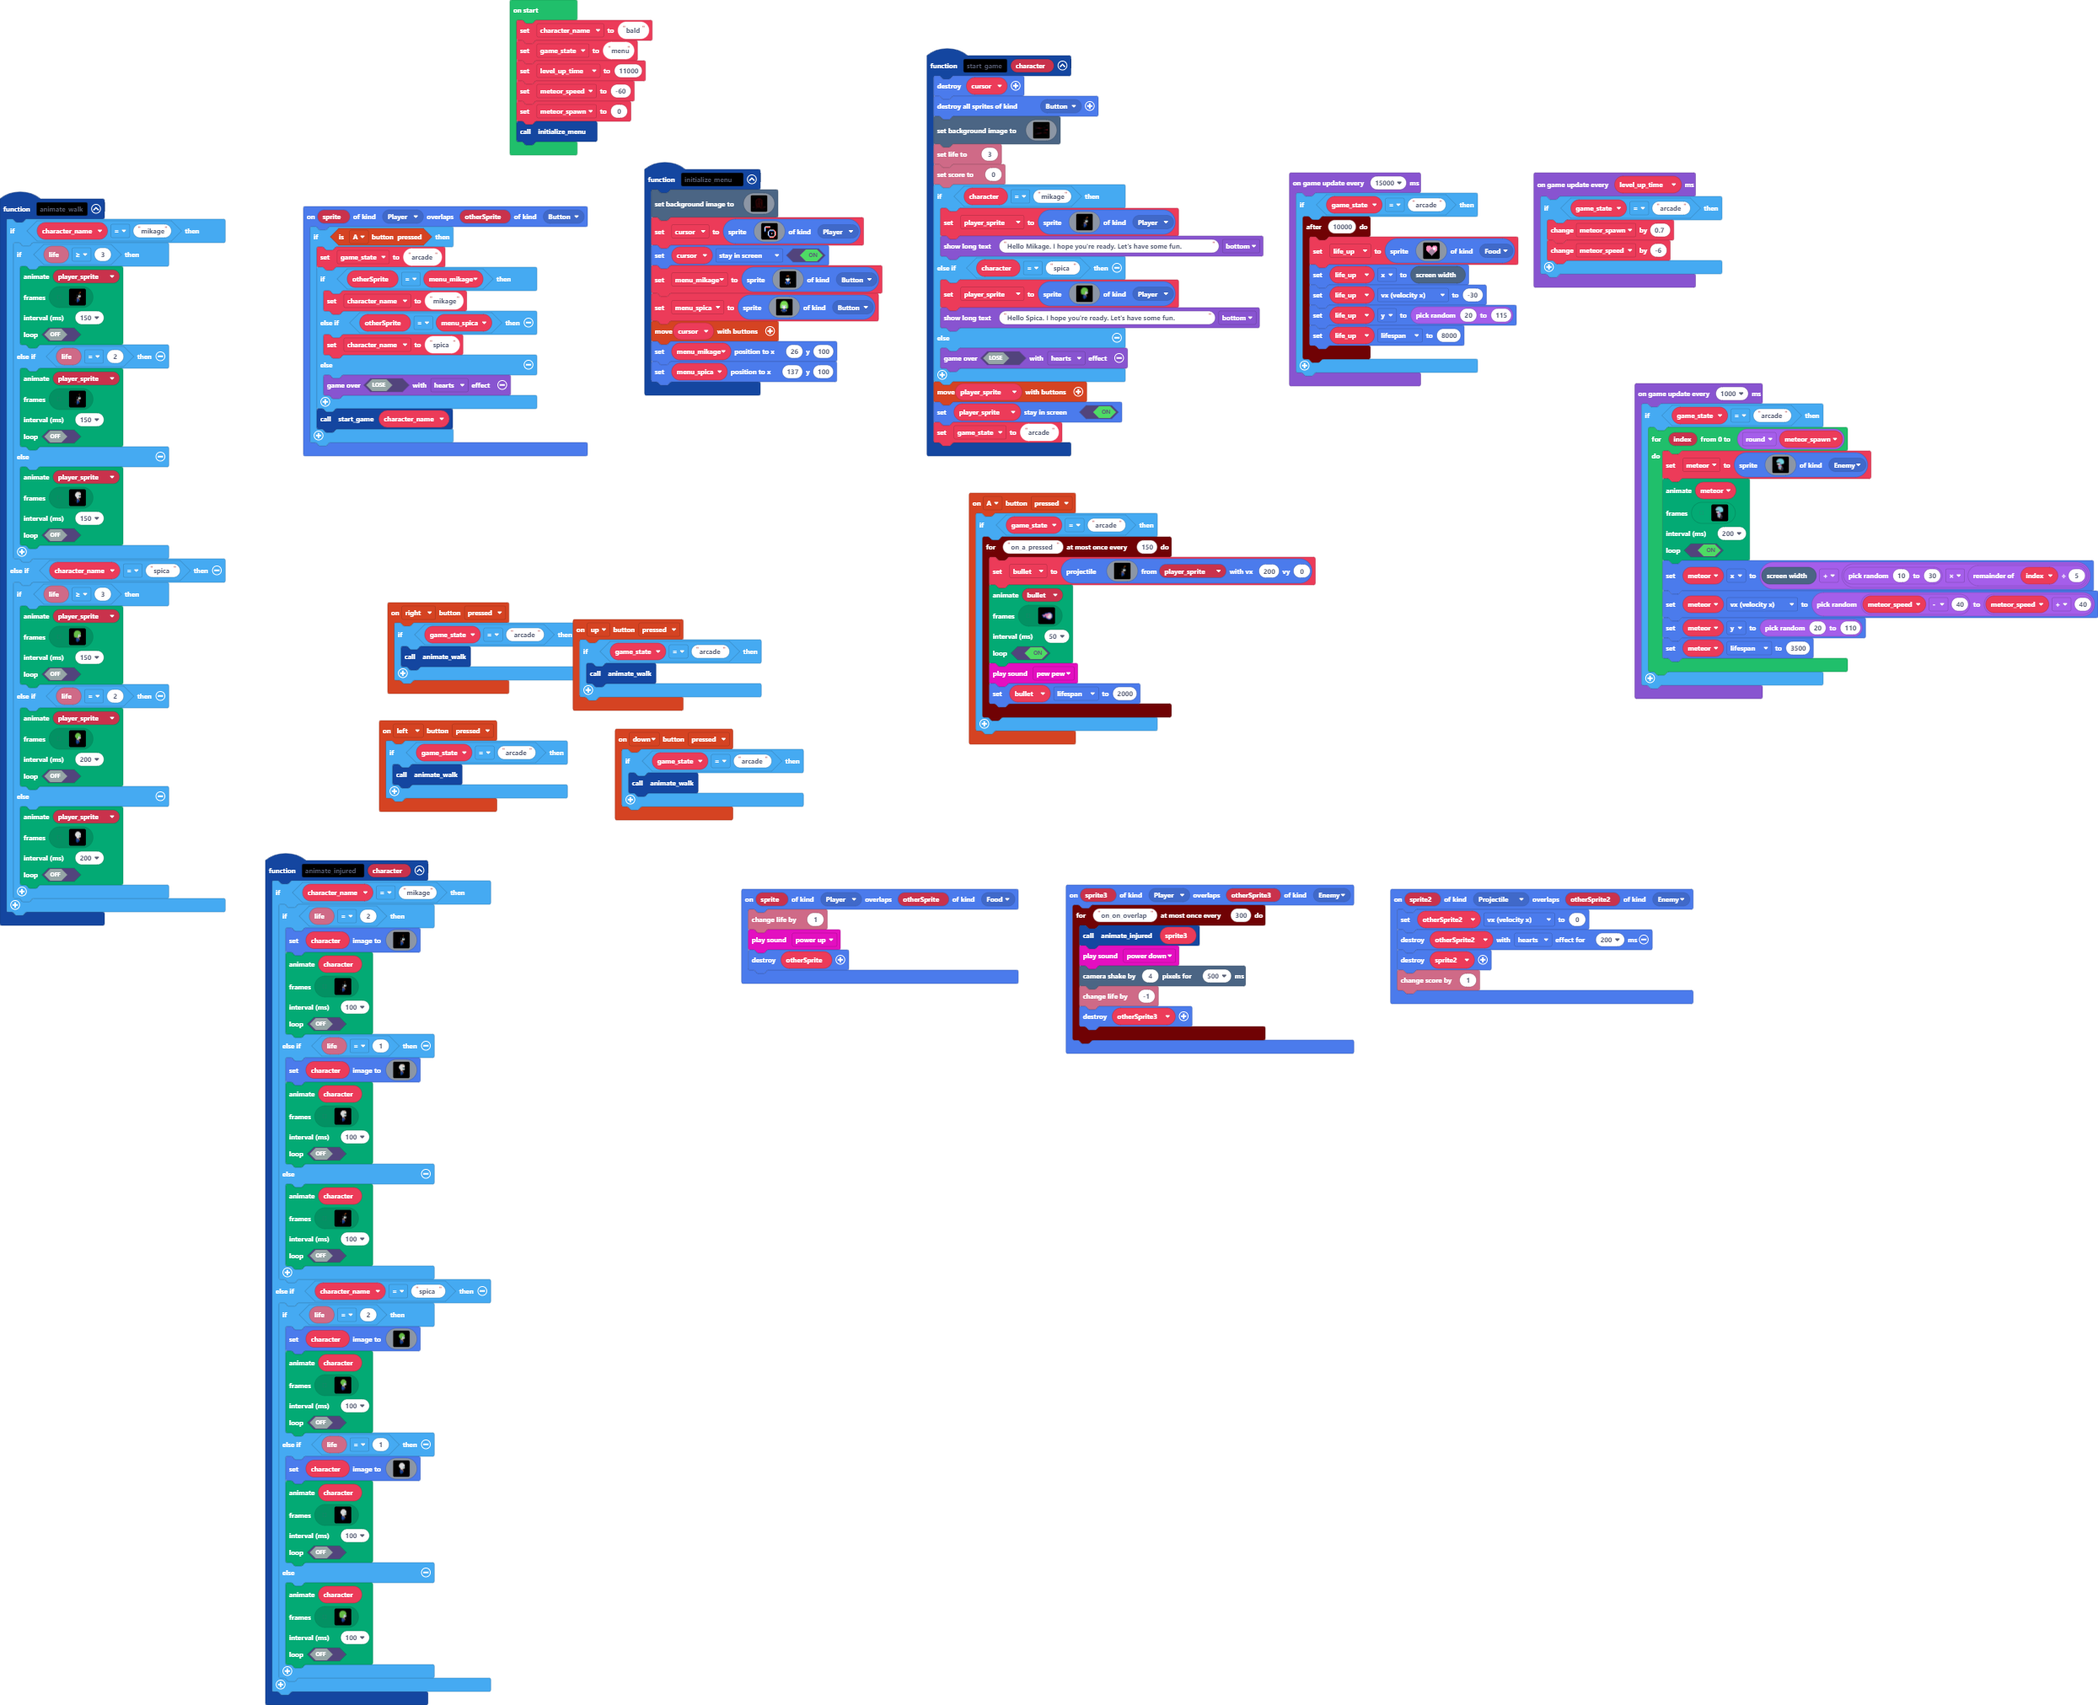
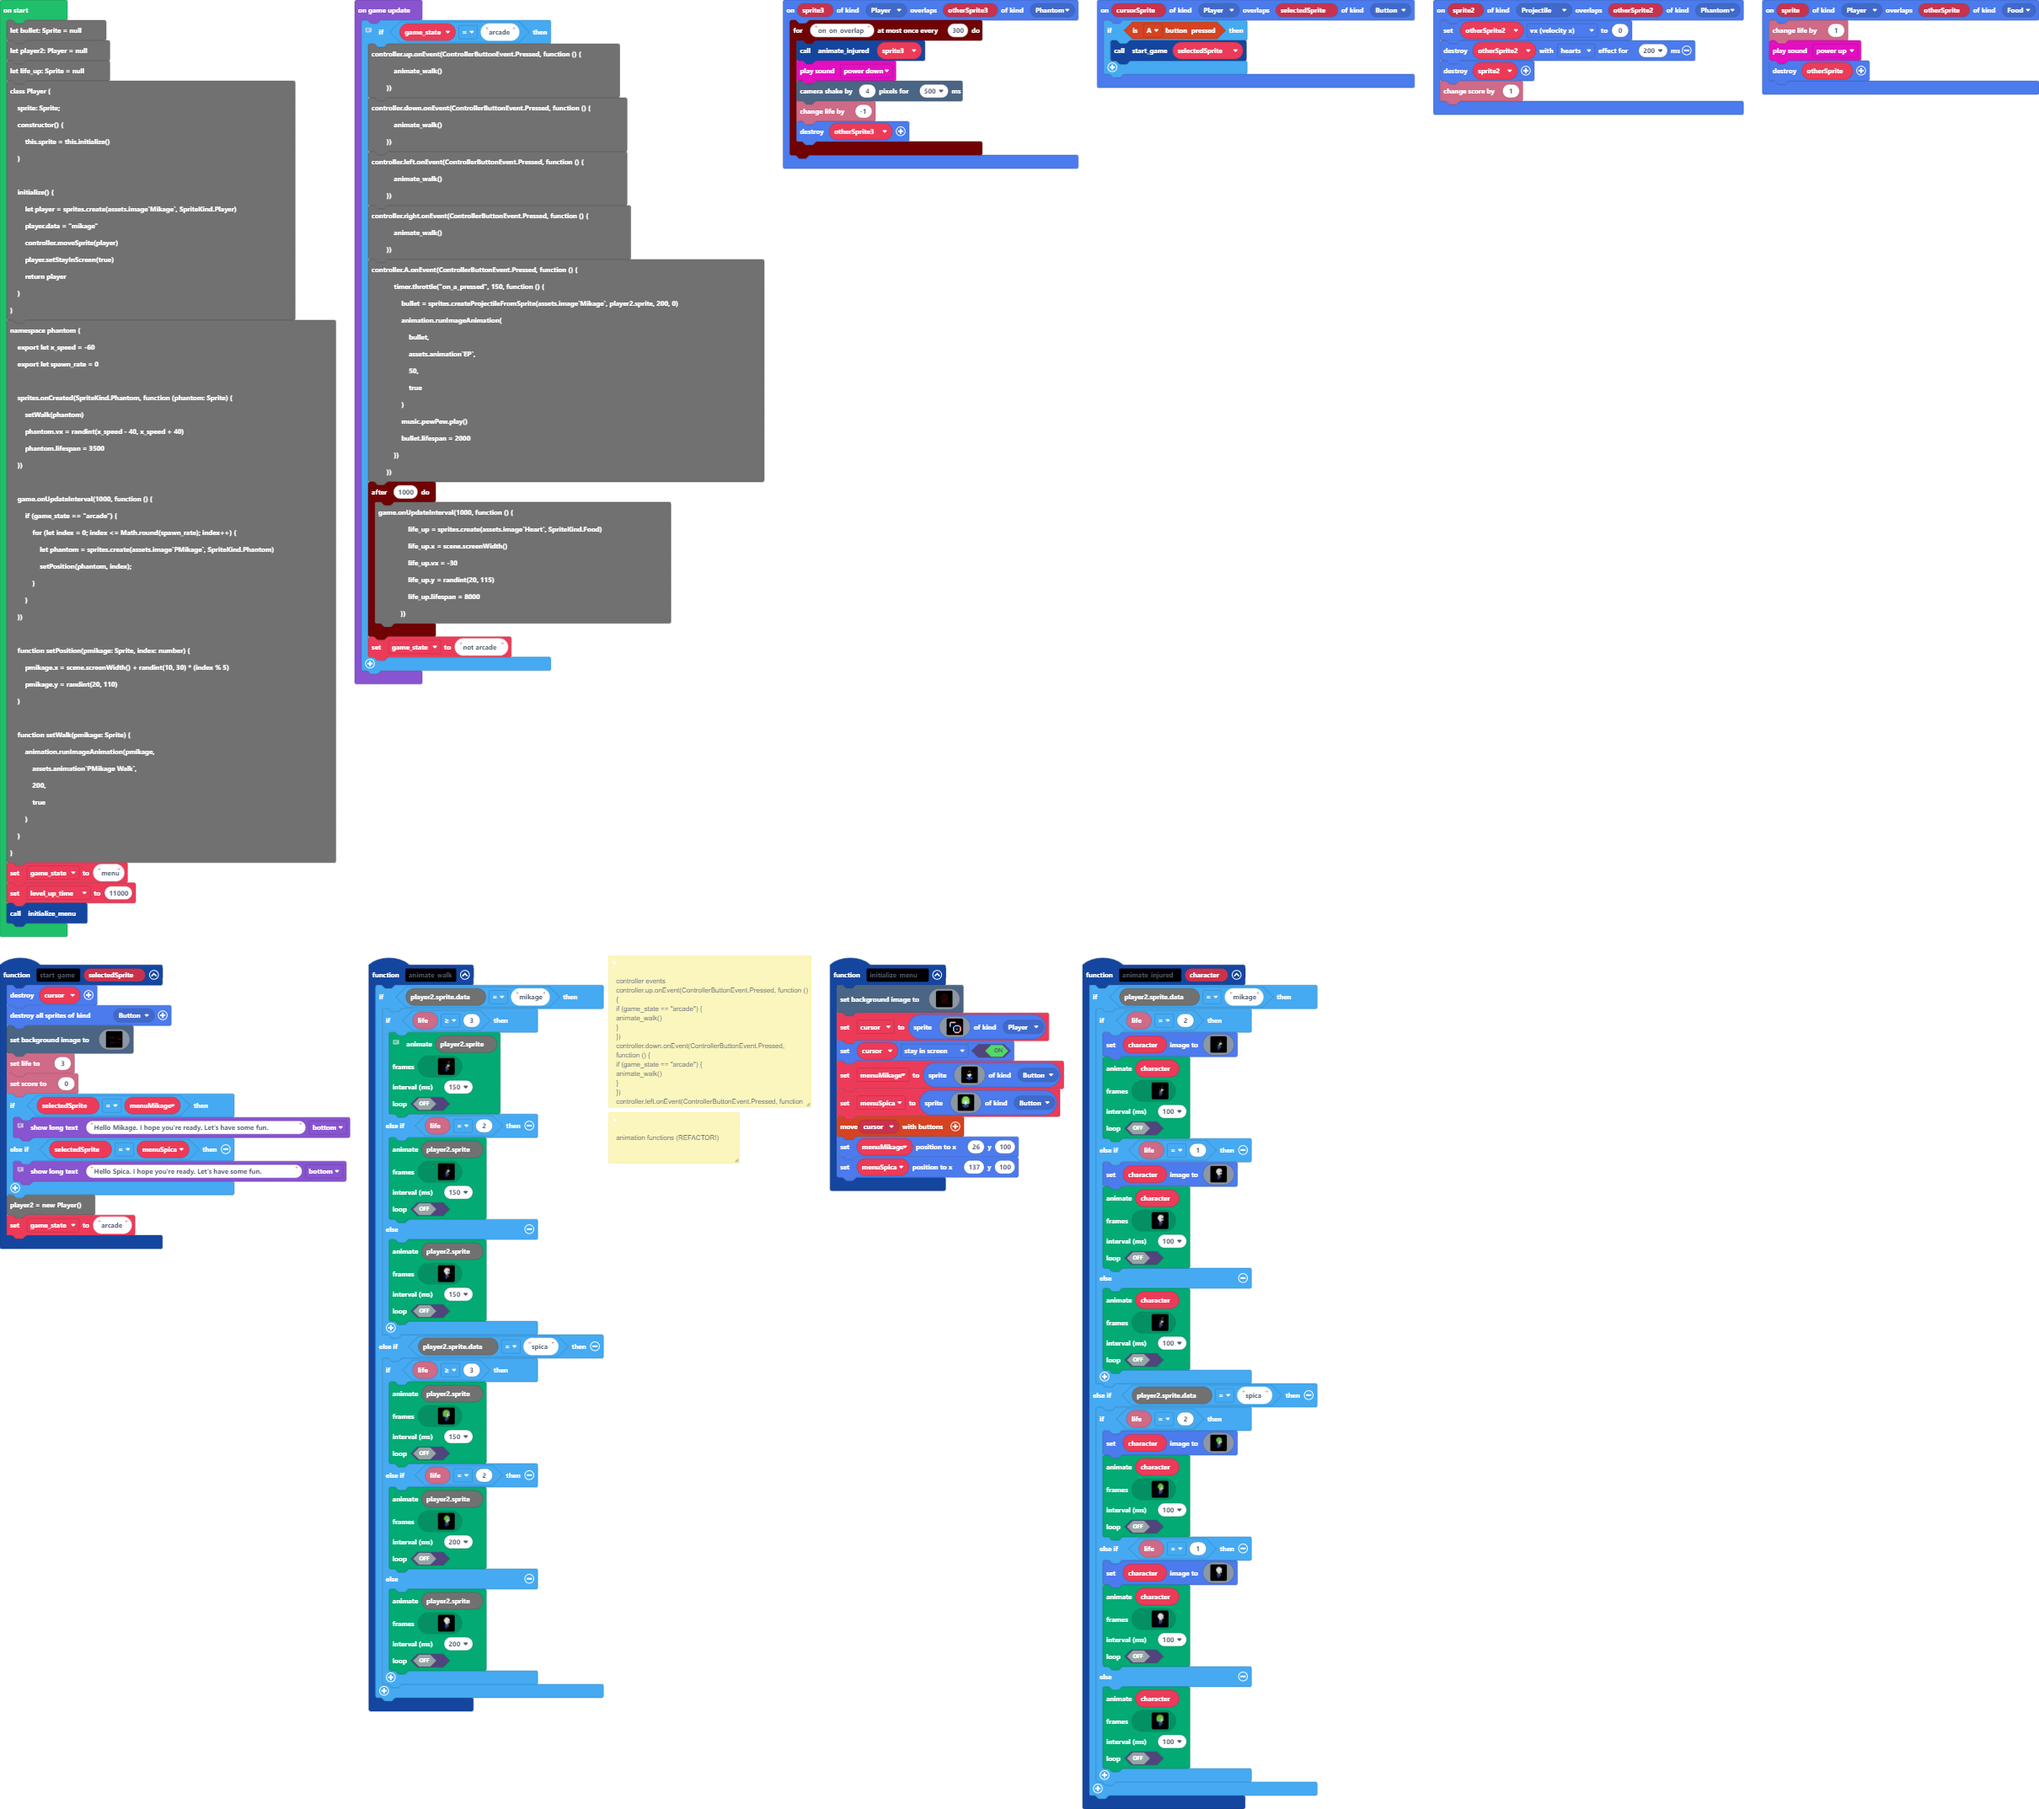
refactored updateinterval listeners with more robust flag system

diff --git a/main.ts b/main.ts
@@ -1,7 +1,7 @@
-// custom sprite category
 namespace SpriteKind {
     export const Button = SpriteKind.create()
     export const Phantom = SpriteKind.create()
+    export const Cursor = SpriteKind.create()
 }
 
 class Player {
@@ -11,8 +11,9 @@ class Player {
     }
 
     initialize() {
+        // TODO: make this adjustable!
         let player = sprites.create(assets.image`Mikage`, SpriteKind.Player)
-        player.data = "mikage"
+        player.data = "MIKAGE"
         controller.moveSprite(player)
         player.setStayInScreen(true)
         return player
@@ -30,7 +31,7 @@ namespace phantom {
     })
 
     game.onUpdateInterval(1000, function () {
-        if (game_state == "arcade") {
+        if (gameState == "LEVEL1") {
             for (let index = 0; index <= Math.round(spawn_rate); index++) {
                 let phantom = sprites.create(assets.image`PMikage`, SpriteKind.Phantom)
                 setPosition(phantom, index);
@@ -52,182 +53,150 @@ namespace phantom {
     }
 }
 
-// controller events
-controller.up.onEvent(ControllerButtonEvent.Pressed, function () {
-    if (game_state == "arcade") {
-        animate_walk()
-    }
-})
-controller.down.onEvent(ControllerButtonEvent.Pressed, function () {
-    if (game_state == "arcade") {
-        animate_walk()
-    }
-})
-controller.left.onEvent(ControllerButtonEvent.Pressed, function () {
-    if (game_state == "arcade") {
-        animate_walk()
-    }
-})
-controller.right.onEvent(ControllerButtonEvent.Pressed, function () {
-    if (game_state == "arcade") {
-        animate_walk()
-    }
-})
-
-controller.A.onEvent(ControllerButtonEvent.Pressed, function () {
-    if (game_state == "arcade") {
-        timer.throttle("on_a_pressed", 150, function () {
-            bullet = sprites.createProjectileFromSprite(assets.image`Mikage`, player.sprite, 200, 0)
-            animation.runImageAnimation(
-                bullet,
-                assets.animation`EP`,
-                50,
-                true
-            )
-            music.pewPew.play()
-            bullet.lifespan = 2000
-        })
-    }
-})
-
-// animation functions (REFACTOR!)
-
-function animate_walk() {
-    if (player.sprite.data === "mikage") {
+/**
+ * animation functions (REFACTOR!)
+ */
+function animate_walk () {
+    if (player.sprite.data == "MIKAGE") {
         if (info.life() >= 3) {
             // replace with class method
             animation.runImageAnimation(
-                player.sprite,
-                assets.animation`Mikage Walk`,
-                150,
-                false
+            player.sprite,
+            assets.animation`Mikage Walk`,
+            150,
+            false
             )
         } else if (info.life() == 2) {
             animation.runImageAnimation(
-                player.sprite,
-                assets.animation`MikageSemi Walk`,
-                150,
-                false
+            player.sprite,
+            assets.animation`MikageSemi Walk`,
+            150,
+            false
             )
         } else {
             animation.runImageAnimation(
-                player.sprite,
-                assets.animation`MikageBald Walk`,
-                150,
-                false
+            player.sprite,
+            assets.animation`MikageBald Walk`,
+            150,
+            false
             )
         }
-    } else if (player.sprite.data === "spica") {
+    } else if (player.sprite.data == "SPICA") {
         if (info.life() >= 3) {
             animation.runImageAnimation(
-                player.sprite,
-                assets.animation`Spica Walk`,
-                150,
-                false
+            player.sprite,
+            assets.animation`Spica Walk`,
+            150,
+            false
             )
         } else if (info.life() == 2) {
             animation.runImageAnimation(
-                player.sprite,
-                assets.animation`SpicaSemi Walk`,
-                200,
-                false
+            player.sprite,
+            assets.animation`SpicaSemi Walk`,
+            200,
+            false
             )
         } else {
             animation.runImageAnimation(
-                player.sprite,
-                assets.animation`SpicaBald Walk`,
-                200,
-                false
+            player.sprite,
+            assets.animation`SpicaBald Walk`,
+            200,
+            false
             )
         }
     }
 }
 
-function animate_injured (character: Sprite) {
-    if (player.sprite.data === "mikage") {
+function animate_injured(character: Sprite) {
+    if (player.sprite.data == "mikage") {
         if (info.life() == 2) {
             character.setImage(assets.image`MikageSemi`)
             animation.runImageAnimation(
-            character,
-            assets.animation`MikageSemi Injured`,
-            100,
-            false
+                character,
+                assets.animation`MikageSemi Injured`,
+                100,
+                false
             )
         } else if (info.life() == 1) {
             character.setImage(assets.image`MikageBald`)
             animation.runImageAnimation(
-            character,
-            assets.animation`MikageBald Injured`,
-            100,
-            false
+                character,
+                assets.animation`MikageBald Injured`,
+                100,
+                false
             )
         } else {
             animation.runImageAnimation(
-            character,
-            assets.animation`Mikage Injured`,
-            100,
-            false
+                character,
+                assets.animation`Mikage Injured`,
+                100,
+                false
             )
         }
-    } else if (player.sprite.data === "spica") {
+    } else if (player.sprite.data == "spica") {
         if (info.life() == 2) {
             character.setImage(assets.image`SpicaSemi`)
             animation.runImageAnimation(
-            character,
-            assets.animation`SpicaSemi Injured`,
-            100,
-            false
+                character,
+                assets.animation`SpicaSemi Injured`,
+                100,
+                false
             )
         } else if (info.life() == 1) {
             character.setImage(assets.image`SpicaBald`)
             animation.runImageAnimation(
-            character,
-            assets.animation`SpicaBald Injured`,
-            100,
-            false
+                character,
+                assets.animation`SpicaBald Injured`,
+                100,
+                false
             )
         } else {
             animation.runImageAnimation(
-            character,
-            assets.animation`Spica Injured`,
-            100,
-            false
+                character,
+                assets.animation`Spica Injured`,
+                100,
+                false
             )
         }
     }
 }
 
-sprites.onOverlap(SpriteKind.Player, SpriteKind.Phantom, function (sprite3, otherSprite3) {
+sprites.onOverlap(SpriteKind.Player, SpriteKind.Food, function (playerSprite, lifeUpSprite) {
+    info.changeLifeBy(1)
+    music.powerUp.play()
+    lifeUpSprite.destroy()
+})
+
+sprites.onOverlap(SpriteKind.Projectile, SpriteKind.Phantom, function (projectileSprite, phantomSprite) {
+    phantomSprite.vx = 0
+    phantomSprite.destroy(effects.hearts, 200)
+    projectileSprite.destroy()
+    info.changeScoreBy(1)
+})
+
+// TODO: make i-frames adjustable
+sprites.onOverlap(SpriteKind.Player, SpriteKind.Phantom, function (playerSprite, phantomSprite) {
     timer.throttle("on_on_overlap", 300, function () {
-        animate_injured(sprite3)
+        // add class method for this
+        animate_injured(playerSprite)
         music.powerDown.play()
         scene.cameraShake(4, 500)
         info.changeLifeBy(-1)
-        otherSprite3.destroy()
+
+        phantomSprite.destroy()
     })
 })
 
-sprites.onOverlap(SpriteKind.Player, SpriteKind.Food, function (sprite, otherSprite) {
-    info.changeLifeBy(1)
-    music.powerUp.play()
-    otherSprite.destroy()
-})
-sprites.onOverlap(SpriteKind.Player, SpriteKind.Button, function (cursorSprite, selectedSprite) {
+// Initial menu event listener
+sprites.onOverlap(SpriteKind.Cursor, SpriteKind.Button, function (cursorSprite, selectedSprite) {
     if (controller.A.isPressed()) {
-        game_state = "arcade"
         start_game(selectedSprite)
     }
-})
-sprites.onOverlap(SpriteKind.Projectile, SpriteKind.Phantom, function (sprite2, otherSprite2) {
-    otherSprite2.vx = 0
-    otherSprite2.destroy(effects.hearts, 200)
-    sprite2.destroy()
-    info.changeScoreBy(1)
 })
 
 function initialize_menu() {
     scene.setBackgroundImage(assets.image`menu_bg`)
-    cursor = sprites.create(assets.image`Cursor`, SpriteKind.Player)
+    cursor = sprites.create(assets.image`Cursor`, SpriteKind.Cursor)
     cursor.setFlag(SpriteFlag.StayInScreen, true)
     menuMikage = sprites.create(assets.image`Mikage Button`, SpriteKind.Button)
     menuSpica = sprites.create(assets.image`Spica Button`, SpriteKind.Button)
@@ -250,43 +219,60 @@ function start_game(selectedSprite: Sprite) {
         // player_sprite = sprites.create(assets.image`Spica`, SpriteKind.Player)
         // player_sprite.data = "spica"
         game.showLongText("Hello Spica. I hope you're ready. Let's have some fun.", DialogLayout.Bottom)
-    } else {
-        game.over(false, effects.hearts)
     }
-    // controller.moveSprite(player_sprite)
-    // player_sprite.setStayInScreen(true)
     player = new Player()
-    game_state = "arcade"
-    console.log(player.sprite.data)
+    gameState = "CHARACTER_SELECTED"
 }
 
-let life_up: Sprite = null
-let player: Player = null
-let bullet: Sprite = null
 let menuSpica: Sprite = null
 let menuMikage: Sprite = null
 let cursor: Sprite = null
-let game_state = "menu"
+let bullet: Sprite = null
+let player: Player = null
+let life_up: Sprite = null
+let gameState = "MENU"
 let level_up_time = 11000
-
 initialize_menu()
-
-game.onUpdateInterval(15000, function () {
-    if (game_state == "arcade") {
-        timer.after(10000, function () {
-            life_up = sprites.create(assets.image`Heart`, SpriteKind.Food)
-            life_up.x = scene.screenWidth()
-            life_up.vx = -30
-            life_up.y = randint(20, 115)
-            life_up.lifespan = 8000
+game.onUpdate(function () {
+    // check if selected flag has been triggered, then trigger first set of listeners 
+    if (gameState == "CHARACTER_SELECTED") {
+        controller.up.onEvent(ControllerButtonEvent.Pressed, function () {
+            animate_walk()
         })
+        controller.down.onEvent(ControllerButtonEvent.Pressed, function () {
+            animate_walk()
+        })
+        controller.left.onEvent(ControllerButtonEvent.Pressed, function () {
+            animate_walk()
+        })
+        controller.right.onEvent(ControllerButtonEvent.Pressed, function () {
+            animate_walk()
+        })
+        controller.A.onEvent(ControllerButtonEvent.Pressed, function () {
+            timer.throttle("on_a_pressed", 150, function () {
+                bullet = sprites.createProjectileFromSprite(assets.image`Mikage`, player.sprite, 200, 0)
+                animation.runImageAnimation(
+                    bullet,
+                    assets.animation`EP`,
+                    50,
+                    true
+                )
+                music.pewPew.play()
+                bullet.lifespan = 2000
+            })
+        })
+
+        timer.after(10000, function () {
+            game.onUpdateInterval(25000, function () {
+                life_up = sprites.create(assets.image`Heart`, SpriteKind.Food)
+                life_up.x = scene.screenWidth()
+                life_up.vx = -30
+                life_up.y = randint(20, 115)
+                life_up.lifespan = 8000
+            })
+        })
+
+        // change flag to first level
+        gameState = "LEVEL1"
     }
 })
-
-game.onUpdateInterval(level_up_time, function () {
-    if (game_state == "arcade") {
-        phantom.spawn_rate += 0.7
-        phantom.x_speed += -6
-    }
-})
-
